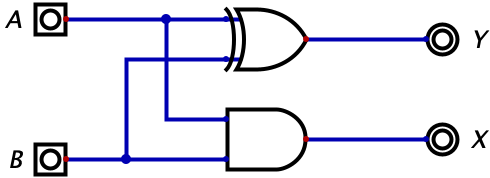
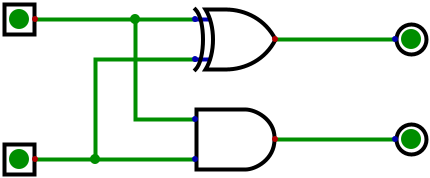
half adders

Changed region(s): [[0.0, 0.0, 0.514, 1.0], [0.5442, 0.0281, 1.0, 0.3933], [0.5744, 0.5899, 0.9977, 0.9831]]

diff --git a/_parts/part8.md b/_parts/part8.md
@@ -23,7 +23,7 @@ As mentioned in the previous paragraph, we can use these logic gates to build mo
 
 Above we have an example of a circuit representing the equation 0+0=0 (in the form of A+B=C). In this example, what we are trying to demonstrate is that the OR gate can be used to add two numbers together. 
 
-*Aside: In the example above, the A, B, C which are all 0s are not the number 0, but the bit 0, which is equivalent to the number 0 ($2^0*0=0$). So, technically, we are adding the bit 0 (the number 0) to another bit 0 (the number 0) giving us the bit 0 (the number 0).*
+*Aside: In the example above, the A, B, C which are all 0s are not the number 0, but the bit 0, which is equivalent to the number 0 ($$2^0*0=0$$). So, technically, we are adding the bit 0 (the number 0) to another bit 0 (the number 0) giving us the bit 0 (the number 0).*
 
 Let's look at a slightly different example:
 
@@ -33,18 +33,27 @@ Here, we are adding the bit 0 (number 0) with the bit 1 (number 1) which gives u
 
 ![Example of 1+1](../assets/part8/1+1%20OR.png)
 
-Here, we are adding the bit 1 (number 1) with the bit 1 (number 1) which gives us the bit 1 (number 1). If you realized there's a mistake here, you're right. The number 1 plus the number 1 should be returning 2. You might be thinking that there is no possible we can represent the number two (written as **11** in binary) with the current logic gate we have. This is where things get exciting.
+Here, we are adding the bit 1 (number 1) with the bit 1 (number 1) which gives us the bit 1 (number 1). If you realized there's a mistake here, you're right. The number 1 plus the number 1 should be returning 2. You might be thinking that there is no possible we can represent the number two (written as **10** in binary) with the current logic gate we have. This is where things get exciting.
 
-Remember when I was talking about legos earlier, this is where we use them. Just like how we can connect different legos with each other to build crazy, unbelievable things, we can use logic gates to build crazy, unbelievable circuits. Here is where we introduce the half adder:
+Remember when I was talking about legos earlier, this is where we use them. Just like how we can connect different legos with each other to build crazy things, we can use logic gates to build crazy circuits. Here is where we introduce the half adder:
 
 ![Example of a Half Adder](../assets/part8/Half%20Adder.png)
 
-![Example of a Half Adder](../assets/part8/example.png)
+The issue with using just an OR gate to represent the addition of two bits is that sometimes the bits can add up to the number 2 which we saw in the example in the paragraph above (meaning we need to somehow represent two bits in the output of a circuit). This is where a half adder is useful because we can now represent the sum and carryout (which was talked about in Chapter 3). In the circuit above, the Y acts as the least significant bit (the sum bit) and the X acts as the most significant bit (the carry out bit). Now, your question might be how did we know to use the XOR gate to calculate Y and the AND gate to calculate X? Take a look at this truth table below:
 
-- insert image for half adder
-- talk about what the half adder is doing (the sum gate and the carry gate) - now we can represent two bits (draw a truth table)
-- we use an XOR gate for the sum gate and an and gate for the carry gate (explain the logic by referring to the truth table)
+| A | B | Y (Sum) | X (Carry Out)
+|:---:|:---:|:---:|:---:|
+| 0 | 0 |  0 | 0
+| 0 | 1 |  1 | 0
+| 1 | 0 |  1 | 0
+| 1 | 1 |  0 | 1
 
+Before we step any further, we should note that these calculations are the same as the ones in Chapter 3. First, looking at the Sum column (Y output), we can see that it looks pretty familar to one of the truth tables in Chapter 6. If you were thinking an XOR gate, then you're right! And, looking at the Carry Out column (X output), we can see that the output looks similar to an AND gate. If we combine both of these bits together, we can have an output now that represents the equation $$1+1=2$$ with the Y bit being the least significant bit and the X bit being the most significant bit (**10** written in binary). Here is an example of the circuit below:
 
-- talk about full adders 
-- what makes them different
+![Example of a Half Adder 1+1](../assets/part8/Half%20Adder%201+1.png)
+
+Here is another example of using a half adder for the equation $$1+0=1$$:
+
+![Example of a Half Adder 1+0](../assets/part8/Half%20Adder%201+0.png)
+
+In this example, we can see that the output is **01** (or the number 1). 
